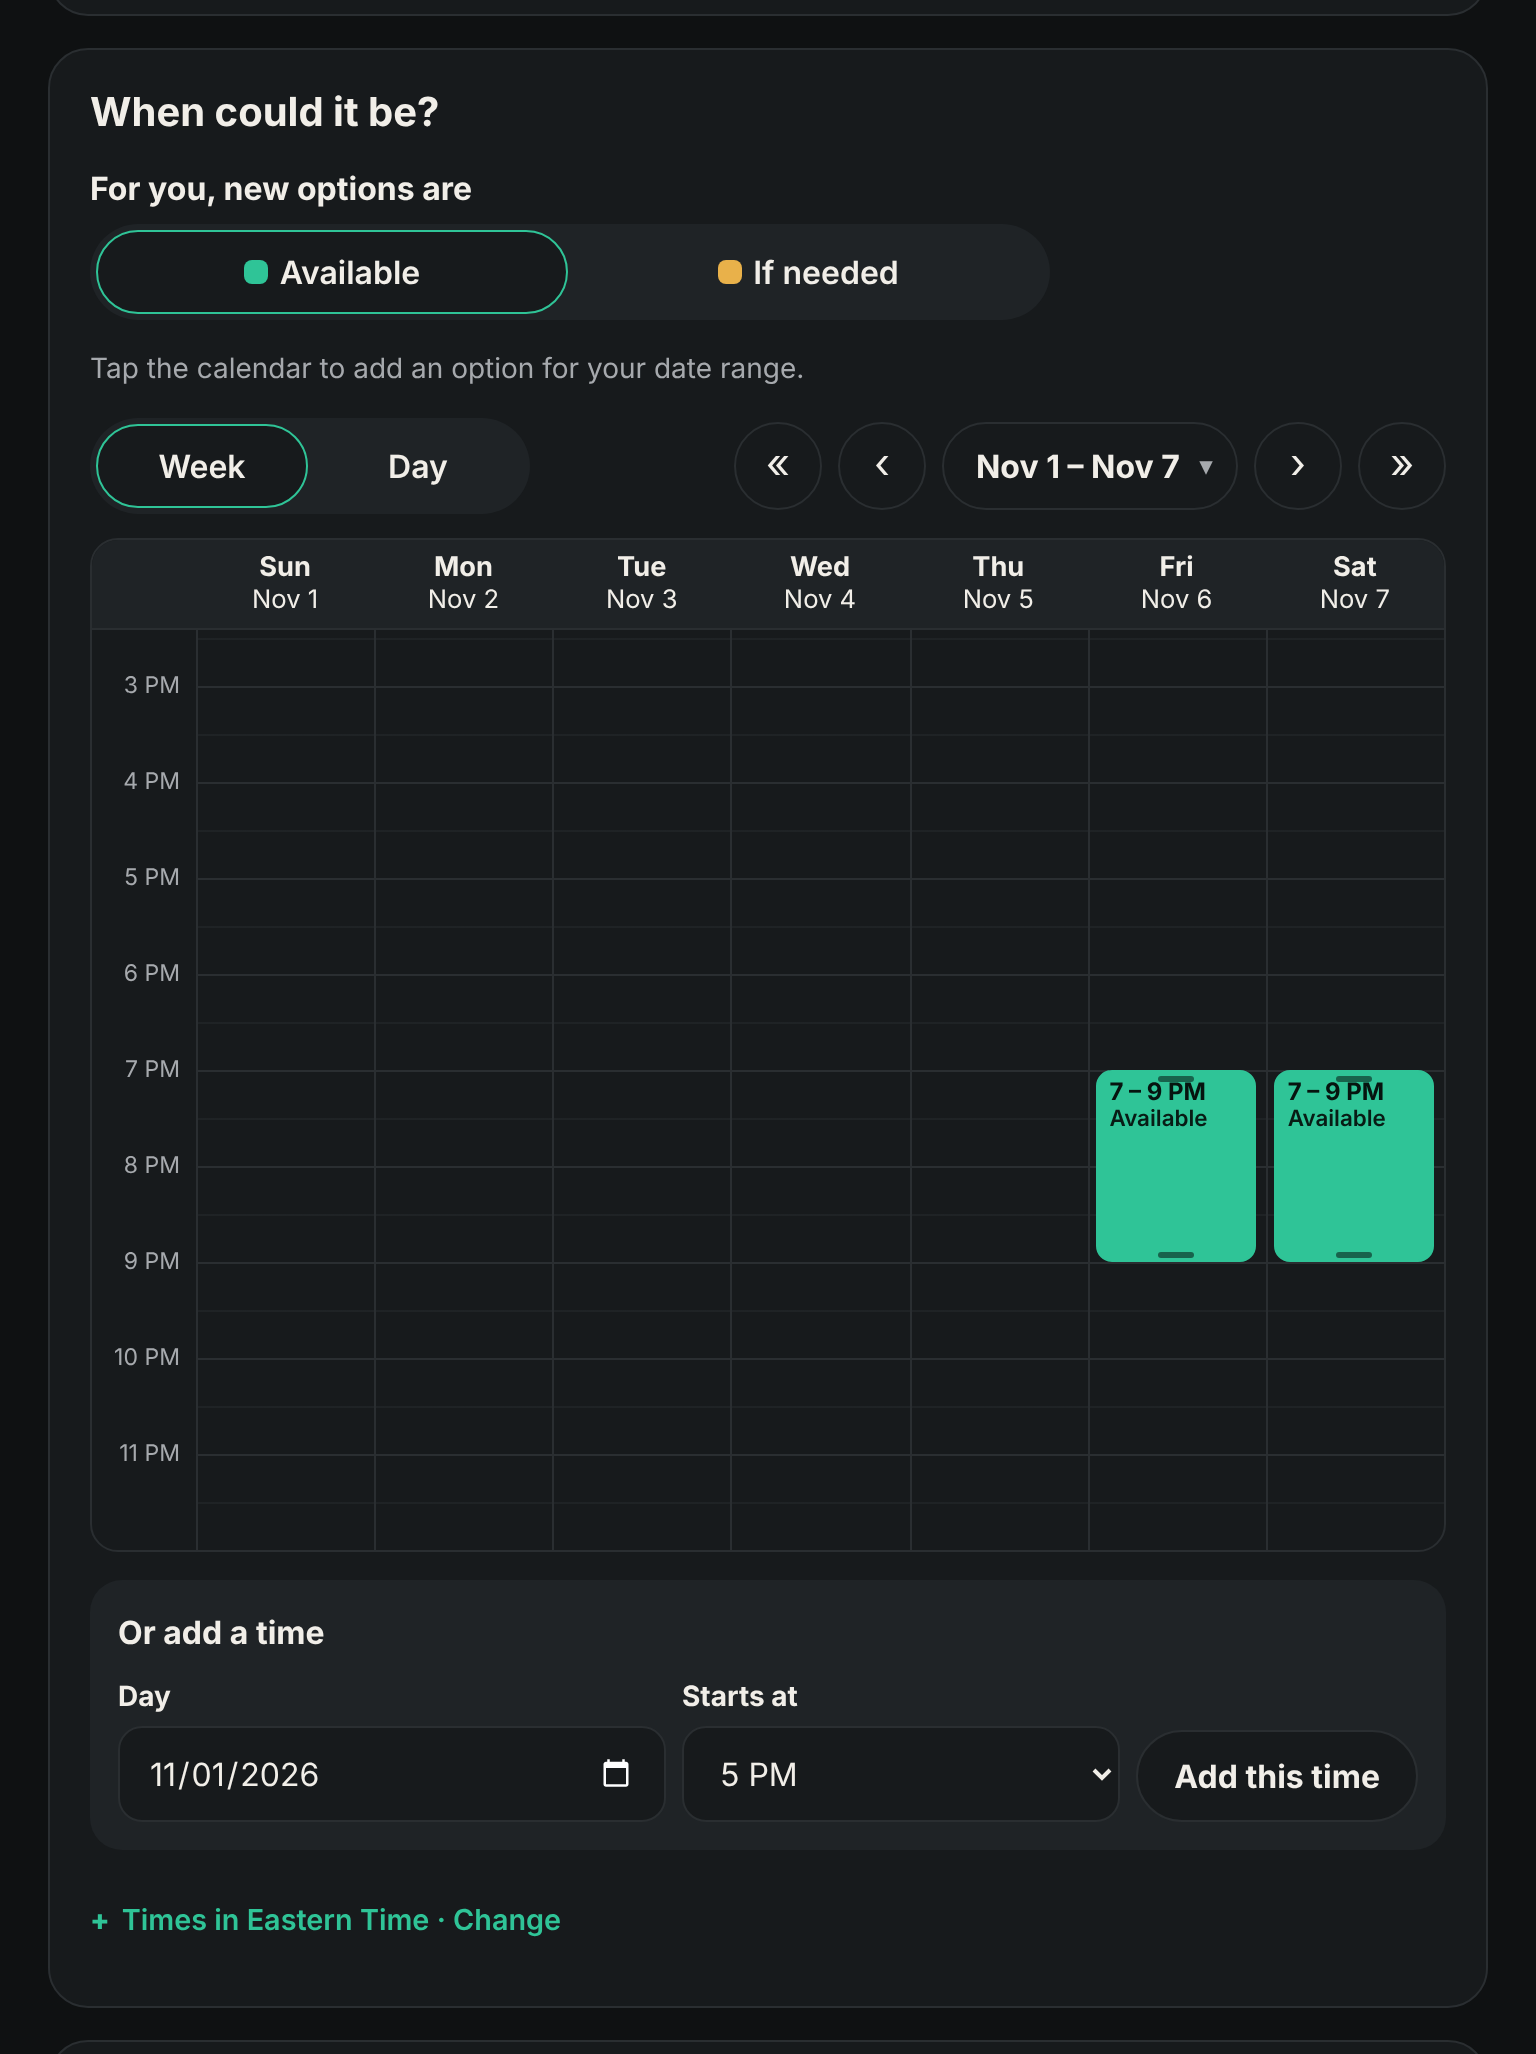
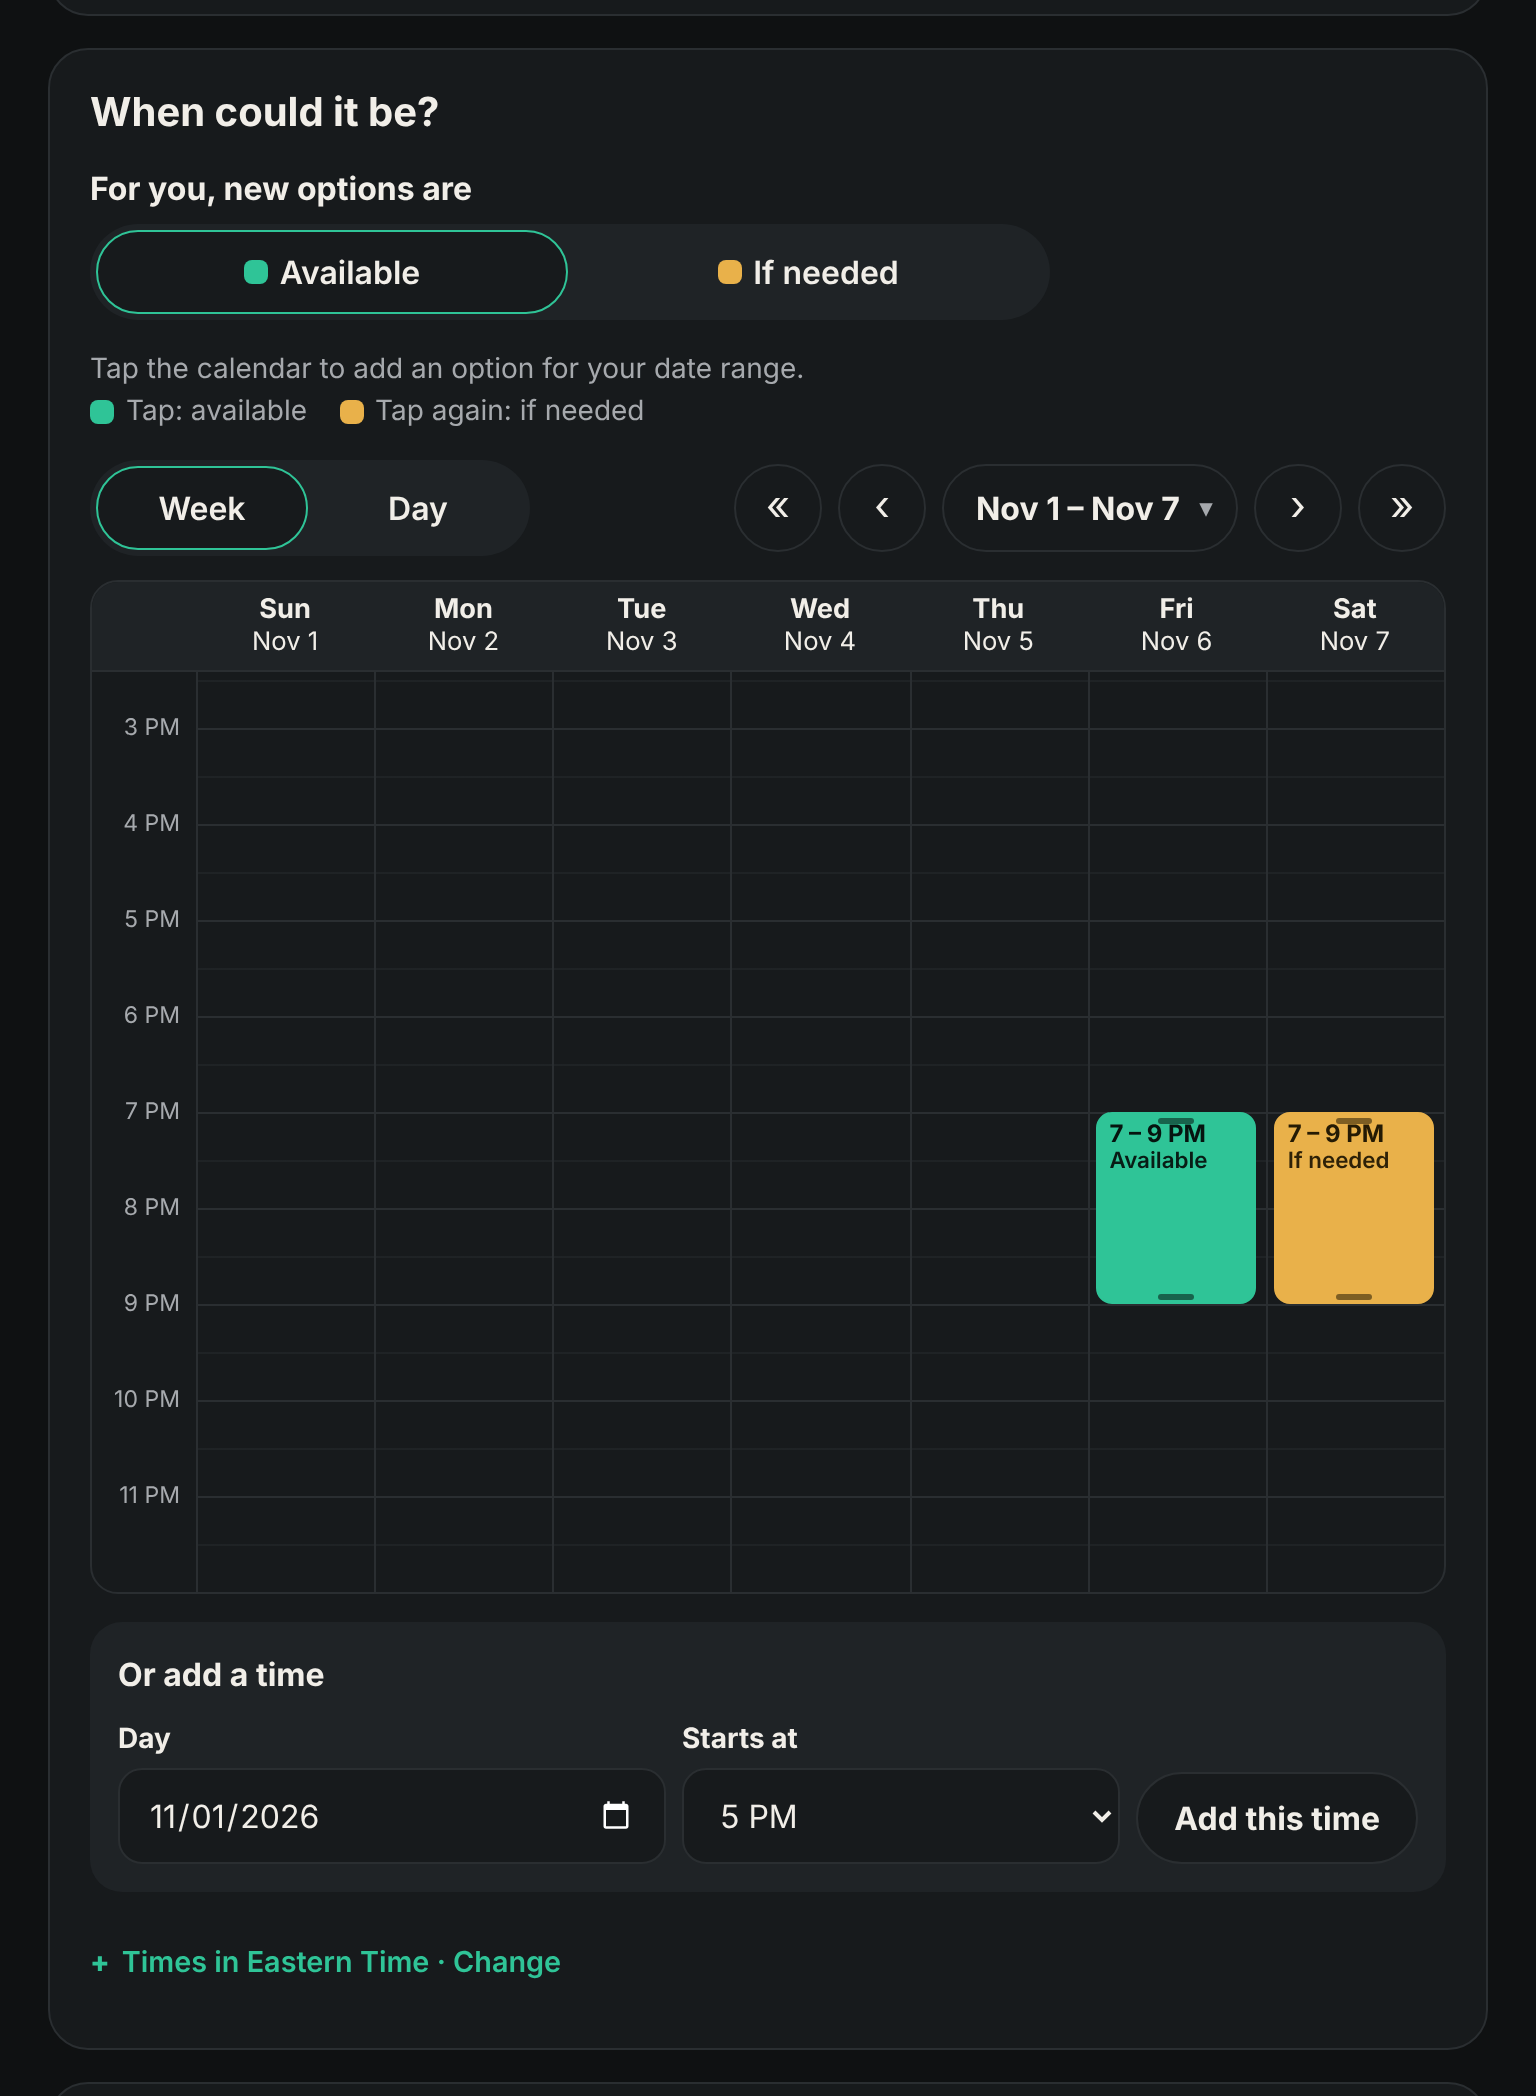
A second tap makes an option "if needed", everywhere, and the page says so (#57)
* Add a landing page and get ready to launch on venn.day

The site now opens on a landing page that explains Venn, with the poll
creator moved to /new. Polls stay at /e/:id.

- Landing page, privacy page and 404 page, sharing the app's styles
- Social preview image, canonical URLs, robots.txt and sitemap
- Poll pages are marked noindex so they stay out of search results
- Both servers serve the app shell only for app routes and return a
  real 404 for anything else
- The deploy workflow attaches a custom domain from CUSTOM_DOMAIN
- MAINTAINING.md walks through registering and launching venn.day

Claude-Session: https://claude.ai/code/session_0165PeHYDGpycZrJhnd8mot5

* Ignore local secret files (.dev.vars, .env)

Claude-Session: https://claude.ai/code/session_0165PeHYDGpycZrJhnd8mot5

* Deploy from the Venn-App environment

The deploy token lives in the Venn-App environment, so the job has to
use that environment to read it.

Claude-Session: https://claude.ai/code/session_0165PeHYDGpycZrJhnd8mot5

* Make the deploy forgive pasted whitespace in Cloudflare secrets

Cloudflare rejected the token with "Invalid format for Authorization
header": the stored value had something around it, most likely a line
break from GitHub's multi-line secret box. The deploy now strips
whitespace and a "Bearer " prefix, checks both values' shape, and says
what's wrong without printing them.

Claude-Session: https://claude.ai/code/session_0165PeHYDGpycZrJhnd8mot5
[…]

diff --git a/e2e/poll.spec.js b/e2e/poll.spec.js
@@ -1852,6 +1852,44 @@ test('how long: 30 min, 1 hour, half day, all day, several days, and any other l
   await expect(page.locator('#options-list .chip')).toContainText('6 – 9 PM');
 });
 
+test('a second tap makes an option "if needed" on every create calendar, and the page says how', async ({ page }) => {
+  // Whole days on "vote on a few dates": tap, tap again, then a third tap takes it away.
+  await page.goto('/new/pick');
+  await page.click('[data-length="allday"]');
+  await expect(page.locator('.tap-key')).toHaveText(/Tap: available\s*Tap again: if needed/);
+  await showNextMonth(page);
+  const day = page.locator(`.cal-day[data-date="${addDays(await nextMonth(page), 2)}"]`);
+  await day.click();
+  // The first pick brings a tip, once, where people are looking.
+  await expect(page.locator('#toast')).toHaveText('Tip: tap it again to make it “if needed”.');
+  const chip = page.locator('#options-list .chip');
+  await expect(chip).toHaveCount(1);
+  await expect(chip.locator('.chip-tag')).toHaveCount(0);
+  await day.click();
+  await expect(chip.locator('.chip-tag')).toHaveText('If needed');
+  await expect(day).toHaveClass(/day-maybe/);
+  await day.click();
+  await expect(chip).toHaveCount(0);
+
+  // Mornings, afternoons and evenings go round the same way.
+  await page.click('[data-length="half"]');
+  await expect(page.locator('.tap-key')).toBeVisible();
+  await page.click('#picker [data-pstep="1"]'); // next week
+  const morning = page.locator('#picker .pg-cell[data-c="0"][data-m="540"]');
+  await morning.click();
+  await expect(chip).toHaveCount(1);
+  await expect(chip.locator('.chip-tag')).toHaveCount(0);
+  await morning.click();
+  await expect(chip.locator('.chip-tag')).toHaveText('If needed');
+  await expect(morning).toHaveClass(/maybe/);
+  await morning.click();
+  await expect(chip).toHaveCount(0);
+
+  // The other create page shows the same key.
+  await page.goto('/new/free');
+  await expect(page.locator('.tap-key')).toHaveText(/Tap: available\s*Tap again: if needed/);
+});
+
 test('half day: pick mornings, afternoons and evenings on days, and edit them again', async ({ page, request }) => {
   await page.goto('/new/pick');
   await page.fill('#organizer', 'Sam');

diff --git a/public/half-day.js b/public/half-day.js
@@ -2,7 +2,7 @@
 // week of days with the same picker as "parts of the day" on the other create page. Only loaded
 // when the organizer picks Half day.
 
-import { DAY_PARTS, IF_NEEDED } from './core.js';
+import { DAY_PARTS, IF_NEEDED, YES } from './core.js';
 import { paintView } from './paint.js';
 import { $$ } from './ui.js';
 
@@ -16,6 +16,8 @@ import { $$ } from './ui.js';
 export function halfView(root, { items, brush, onChange, startAt }) {
   // The picker holds the same keys as the options.
   const sel = new Set(items.keys());
+  // A second tap makes one "if needed", as on the other calendars; the brush paints new ones either way.
+  const maybe = new Set([...items].filter(([, it]) => it.v === IF_NEEDED).map(([k]) => k));
   // If-needed options are amber, as on the other calendars, and say so.
   const tint = () => {
     for (const el of $$('.pg-cell', root)) {
@@ -27,6 +29,8 @@ export function halfView(root, { items, brush, onChange, startAt }) {
   };
   const painter = paintView(root, {
     selected: sel,
+    maybe,
+    marking: () => brush() === IF_NEEDED,
     parts: DAY_PARTS,
     startAt,
     onChange() {
@@ -34,7 +38,9 @@ export function halfView(root, { items, brush, onChange, startAt }) {
       for (const k of sel) {
         const [date, m] = k.split('|');
         const p = DAY_PARTS.find((x) => x.start === +m);
-        if (!items.has(k)) items.set(k, { date, from: p.start, to: p.end, v: brush() });
+        const v = maybe.has(k) ? IF_NEEDED : YES;
+        if (!items.has(k)) items.set(k, { date, from: p.start, to: p.end, v });
+        else items.get(k).v = v;
       }
       tint();
       onChange();
@@ -45,7 +51,11 @@ export function halfView(root, { items, brush, onChange, startAt }) {
   return {
     render() {
       sel.clear();
-      for (const k of items.keys()) sel.add(k);
+      maybe.clear();
+      for (const [k, it] of items) {
+        sel.add(k);
+        if (it.v === IF_NEEDED) maybe.add(k);
+      }
       painter.render();
       tint();
     },

diff --git a/public/create-pick.js b/public/create-pick.js
@@ -22,6 +22,8 @@ import {
   tzLine,
   wirePlan,
   youFields,
+  TAP_KEY,
+  ifNeededTip,
 } from './create.js';
 
 // ---------- "Vote on a few dates" ----------
@@ -108,6 +110,7 @@ export function renderPick() {
           </div>
         </div>
         <p class="hint" id="when-hint"></p>
+        ${TAP_KEY}
         <div id="picker"></div>
         <div class="add-time" id="add-time" role="group" aria-labelledby="at-l" hidden></div>
         ${tzLine()}
@@ -147,6 +150,7 @@ export function renderPick() {
   function add(it) {
     lastFrom = it.from;
     items.set(`${it.date}|${it.from}`, { ...it, v: brush }); // one option per start time
+    ifNeededTip();
     changed();
   }
   /** Tapping an option switches it between available and if needed (for the organizer). */
@@ -245,9 +249,15 @@ export function renderPick() {
         dayClass: (d) =>
           `${tripOf(d) ? `in-trip${ifNeeded(tripOf(d)) ? ' trip-maybe' : ''}` : ''}${items.get(`${d}|day`)?.v === IF_NEEDED ? ' day-maybe' : ''}`,
         onChange: () => {
-          for (const [k, it] of items) if (it.from == null && !starts.has(it.date)) items.delete(k);
-          for (const d of starts)
-            if (!items.has(`${d}|day`)) items.set(`${d}|day`, { date: d, days: length === 'days' ? spanDays : 1, v: brush });
+          const gone = [...items].filter(([, it]) => it.from == null && !starts.has(it.date));
+          const added = [...starts].filter((d) => !items.has(`${d}|day`));
+          // A tap on a picked day goes round, as on the other calendars: available, if needed, then gone.
+          if (gone.length === 1 && !added.length && !ifNeeded(gone[0][1])) {
+            gone[0][1].v = IF_NEEDED;
+            starts.add(gone[0][1].date);
+          } else for (const [k] of gone) items.delete(k);
+          if (added.length) ifNeededTip();
+          for (const d of added) items.set(`${d}|day`, { date: d, days: length === 'days' ? spanDays : 1, v: brush });
           month.render();
           renderList();
         },

diff --git a/scripts/screenshots.js b/scripts/screenshots.js
@@ -199,11 +199,14 @@ async function stills(dark) {
   // Tap 7 PM on two Fridays and Saturdays on the week calendar, then come back to the first week.
   for (const d of [0, 1, 7, 8]) await tapAt(desktop, addDays(fri, d), 19 * 60);
   await showDate(desktop, fri);
+  // A second tap on Saturday makes it "if needed", so the picture shows both colours.
+  await desktop.locator(`#picker .tg-col[data-date="${addDays(fri, 1)}"] .tg-block`).click();
   await desktop.locator(`#picker .tg-col[data-date="${fri}"]`).evaluate((el) => {
     const s = el.closest('.tg-scroll');
     s.scrollTop = s.scrollHeight;
   });
   await desktop.locator('#title').blur();
+  await desktop.mouse.move(0, 0); // no hover ×
   await desktop.addStyleTag({ content: '.create-bar { position: static; }' });
   await shoot(desktop, '.sheet:has(#when-h)', join(out, `create-${suffix}.png`), {
     from: '.sheet:has(#when-h)',
@@ -250,6 +253,7 @@ async function stills(dark) {
   await maker.fill('#title', 'Dinner at Rosa’s');
   await maker.fill('#organizer', 'Priya');
   for (const d of [0, 1]) await tapAt(maker, addDays(fri, d), 19 * 60);
+  await maker.locator(`#picker .tg-col[data-date="${addDays(fri, 1)}"] .tg-block`).click(); // Saturday again: if needed
   await maker.locator('#organizer').blur();
   await maker.evaluate(() => {
     const top = document.querySelector('.sheet:has(#when-h)').getBoundingClientRect().top + window.scrollY;

diff --git a/public/create-free.js b/public/create-free.js
@@ -49,6 +49,8 @@ import {
   tzLine,
   wirePlan,
   youFields,
+  TAP_KEY,
+  ifNeededTip,
 } from './create.js';
 
 // ---------- "Ask when people are available" ----------
@@ -121,6 +123,7 @@ export function renderFree() {
           </div>
         </div>
         <p class="hint" id="when-help" hidden></p>
+        ${TAP_KEY}
         <div id="when"></div>
         <div class="pills quick" role="group" aria-label="Quick picks" id="quick"></div>
         ${tzLine()}
@@ -468,6 +471,7 @@ export function renderFree() {
     // What's new takes the brush: available or if needed for the organizer.
     const may = maybe[level];
     for (const k of st[level]) if (!before.has(k)) brush === IF_NEEDED ? may.add(k) : may.delete(k);
+    if ([...st[level]].some((k) => !before.has(k))) ifNeededTip();
     for (const l in maybe) for (const k of [...maybe[l]]) if (!st[l].has(k)) maybe[l].delete(k);
     before = new Set(st[level]);
     const box = $('#free-list');

diff --git a/public/create.js b/public/create.js
@@ -174,6 +174,20 @@ export function youFields() {
     </section>`;
 }
 
+/** How to mark something "if needed": the same on every calendar, a second tap. */
+export const TAP_KEY = `<p class="hint tap-key"><span><span class="swatch swatch-yes" aria-hidden="true"></span>Tap: available</span><span><span class="swatch swatch-maybe" aria-hidden="true"></span>Tap again: if needed</span></p>`;
+
+/** Once, after the first thing is picked, the same tip where people are looking. */
+export function ifNeededTip() {
+  try {
+    if (localStorage.getItem('venn:tip-maybe')) return;
+    localStorage.setItem('venn:tip-maybe', '1');
+  } catch {
+    return;
+  }
+  toast('Tip: tap it again to make it “if needed”.');
+}
+
 /** The time zone the times are in, under the calendar, with a way to change it. */
 export const tzLine = () => `
   <details class="reveal tz-line" id="tz-box">

diff --git a/test/budget.test.js b/test/budget.test.js
@@ -29,8 +29,9 @@ const SHELL = ['app.html', 'styles.css', 'app.js'];
 const PAGES = {
   // +1.25 each for templates (templates.js and the cards); their notes and surprises load on demand.
   // +0.5 each for the poll's own icon button; the picture tools load when it's tapped.
-  'vote on a few dates page': ['create-pick.js', ['create.css'], 48],
-  'ask when people are available page': ['create-free.js', ['create.css'], 46.25], // +0.25 for usage stats
+  // +0.5 each for the "tap again: if needed" key and tip, the same on every calendar.
+  'vote on a few dates page': ['create-pick.js', ['create.css'], 48.5],
+  'ask when people are available page': ['create-free.js', ['create.css'], 46.75], // +0.25 for usage stats
   'poll page': ['event.js', [], 45],
 };
 

diff --git a/public/create.css b/public/create.css
@@ -732,3 +732,14 @@ button.emoji-tile:focus-visible {
     font-size: 0.875rem;
   }
 }
+.tap-key {
+  display: flex;
+  flex-wrap: wrap;
+  gap: 4px 16px;
+  margin: 0 0 8px;
+}
+.tap-key > span {
+  display: inline-flex;
+  align-items: center;
+  gap: 6px;
+}
